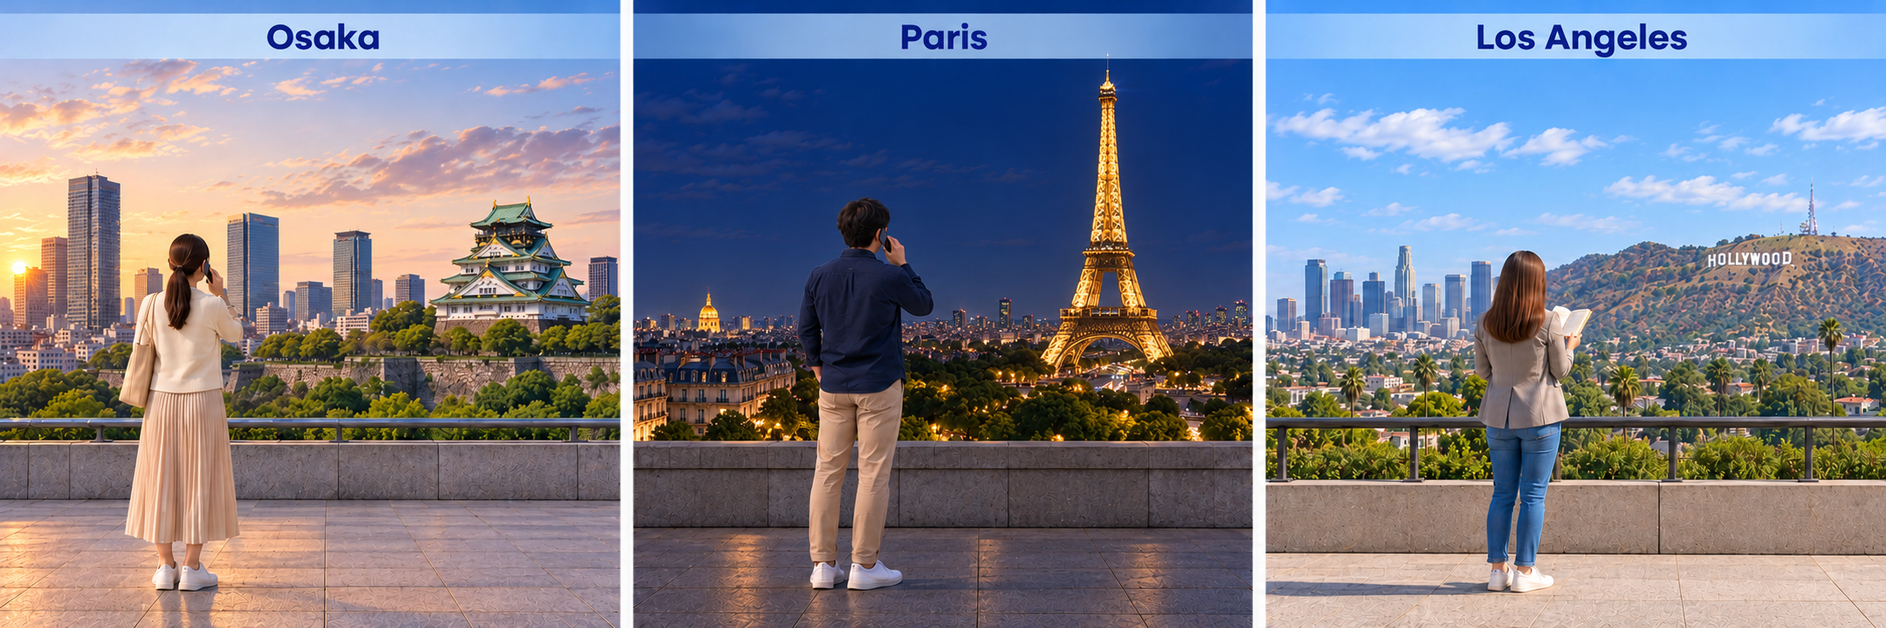
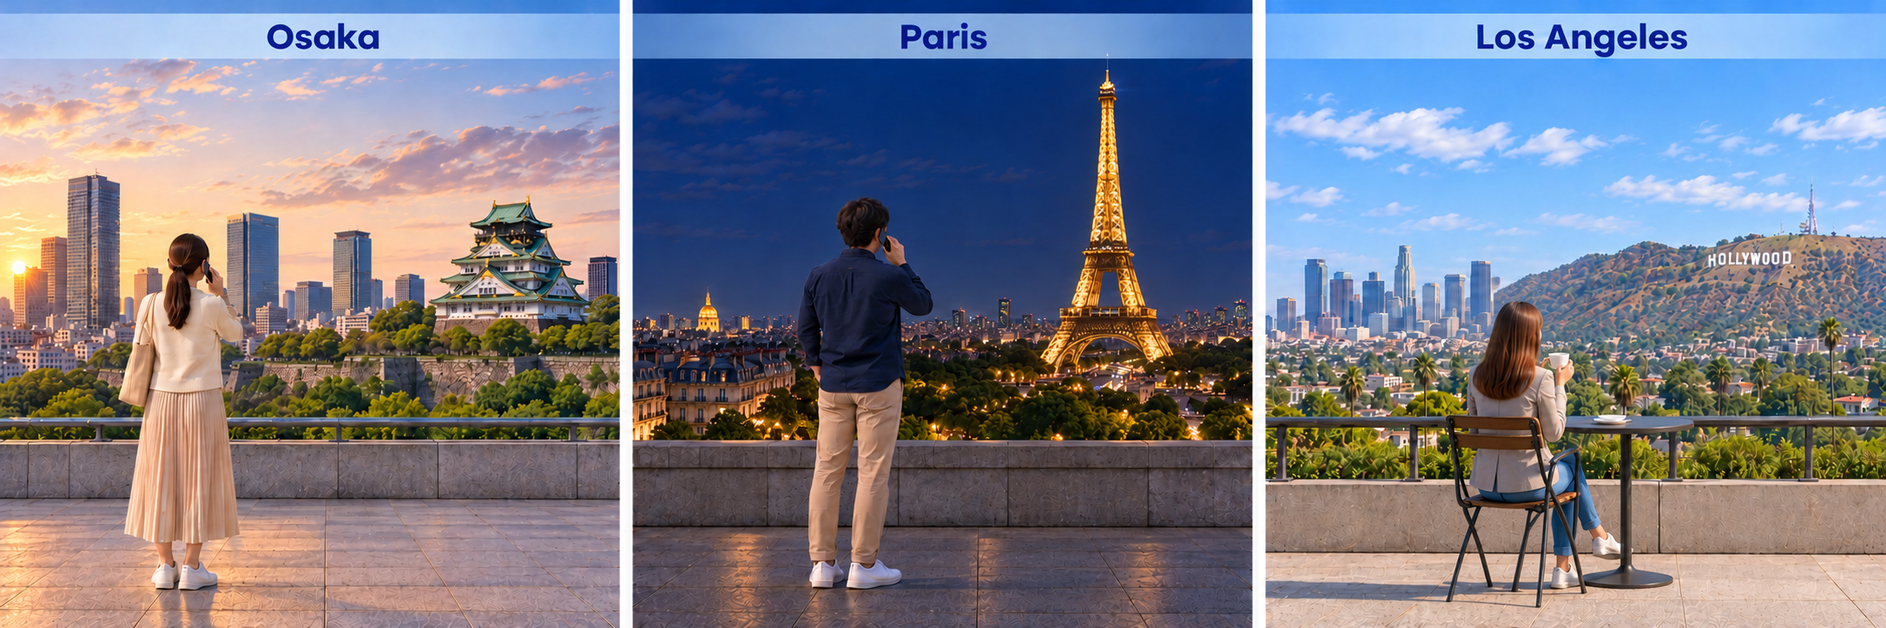
Refine demonstrative examples, scene layouts and clock choices

diff --git a/practice2-next.js b/practice2-next.js
@@ -11,7 +11,7 @@ const PracticeNext = (()=>{
         {hira:'たけし',kanji:'たけし',romaji:'Takeshi',meaning:'Takeshi (green sweater)',kind:'person-takeshi'},
         {hira:'ロバート',kanji:'ロバート',romaji:'Robāto',meaning:'Robert (red sweater)',kind:'person-robert'}
     ];
-    const readings=[['Bさん','びーさん'],['Cさん','しーさん'],['午前6時','ごぜんろくじ'],['午後9時','ごごくじ'],['午後5時','ごごごじ'],['午後2時','ごごにじ'],['午前六時','ごぜんろくじ'],['午後九時','ごごくじ'],['午後五時','ごごごじ'],['午後二時','ごごにじ'],['朝','あさ'],['昼','ひる'],['夜','よる'],['夕方','ゆうがた'],['大阪','おおさか'],['果物','くだもの'],['午後10時','ごごじゅうじ'],['午後1時','ごごいちじ'],['午前9時','ごぜんくじ'],['午後十時','ごごじゅうじ'],['午後一時','ごごいちじ'],['午前九時','ごぜんくじ'],['何時','なんじ'],['今','いま'],['何','なに'],['五千円','ごせんえん'],['六千円','ろくせんえん'],['八千円','はっせんえん'],['九千円','きゅうせんえん'],['一万円','いちまんえん'],['弁当','べんとう'],['六百円','ろっぴゃくえん'],['九百円','きゅうひゃくえん'],['四百円','よんひゃくえん'],['帽子','ぼうし'],['四千円','よんせんえん'],['人','ひと'],['誰','だれ'],['私','わたし'],['武','たけし'],['三万円','さんまんえん'],['3万円','さんまんえん'],['3千円','さんぜんえん'],['2千円','にせんえん'],['3百円','さんびゃくえん'],['円','えん'],['30000円','さんまんえん'],['30,000円','さんまんえん'],['三千円','さんぜんえん'],['3000円','さんぜんえん'],['3,000円','さんぜんえん'],['二千円','にせんえん'],['2000円','にせんえん'],['2,000円','にせんえん'],['三百円','さんびゃくえん'],['300円','さんびゃくえん'],['千円','せんえん']];
+    const readings=[['百円','ひゃくえん'],['二百円','にひゃくえん'],['Bさん','びーさん'],['Cさん','しーさん'],['午前6時','ごぜんろくじ'],['午後9時','ごごくじ'],['午後5時','ごごごじ'],['午後2時','ごごにじ'],['午前六時','ごぜんろくじ'],['午後九時','ごごくじ'],['午後五時','ごごごじ'],['午後二時','ごごにじ'],['朝','あさ'],['昼','ひる'],['夜','よる'],['夕方','ゆうがた'],['大阪','おおさか'],['果物','くだもの'],['午後10時','ごごじゅうじ'],['午後1時','ごごいちじ'],['午前9時','ごぜんくじ'],['午後十時','ごごじゅうじ'],['午後一時','ごごいちじ'],['午前九時','ごぜんくじ'],['何時','なんじ'],['今','いま'],['何','なに'],['五千円','ごせんえん'],['六千円','ろくせんえん'],['八千円','はっせんえん'],['九千円','きゅうせんえん'],['一万円','いちまんえん'],['弁当','べんとう'],['六百円','ろっぴゃくえん'],['九百円','きゅうひゃくえん'],['四百円','よんひゃくえん'],['帽子','ぼうし'],['四千円','よんせんえん'],['人','ひと'],['誰','だれ'],['私','わたし'],['武','たけし'],['三万円','さんまんえん'],['3万円','さんまんえん'],['3千円','さんぜんえん'],['2千円','にせんえん'],['3百円','さんびゃくえん'],['円','えん'],['30000円','さんまんえん'],['30,000円','さんまんえん'],['三千円','さんぜんえん'],['3000円','さんぜんえん'],['3,000円','さんぜんえん'],['二千円','にせんえん'],['2000円','にせんえん'],['2,000円','にせんえん'],['三百円','さんびゃくえん'],['300円','さんびゃくえん'],['千円','せんえん']];
     return {items:[...Practice21.items,...places,...people,...cities,{hira:'おおさか',kanji:'大阪',romaji:'Ōsaka',meaning:'Osaka',kind:'city'},{hira:'パリ',kanji:'パリ',romaji:'Pari',meaning:'Paris',kind:'city'},{hira:'ロサンゼルス',kanji:'ロサンゼルス',romaji:'Rosanzerusu',meaning:'Los Angeles',kind:'city'},{hira:'くだもの',kanji:'果物',romaji:'kudamono',meaning:'fruit',kind:'fruit'}],places,people,cities,readings};
 })();
 // Practice 2.2 / 2.3: visual demonstratives. Recorder/settings derived from Practice 1.2.
@@ -301,7 +301,7 @@ function stopAllPlayback() {
 // このページの語彙の読みを正規化する。
 function convertToHiragana(text) {
     let value=String(text??'');
-    value=value.replace(/(\d[\d,]*)(?:円|えん)/g,(full,amount)=>({30000:'さんまんえん',3000:'さんぜんえん',2000:'にせんえん',300:'さんびゃくえん',1000:'せんえん',4000:'よんせんえん',600:'ろっぴゃくえん',900:'きゅうひゃくえん',5000:'ごせんえん',6000:'ろくせんえん',8000:'はっせんえん',9000:'きゅうせんえん',10000:'いちまんえん'}[Number(amount.replace(/,/g,''))]||full));
+    value=value.replace(/(\d[\d,]*)(?:円|えん)/g,(full,amount)=>({30000:'さんまんえん',3000:'さんぜんえん',2000:'にせんえん',300:'さんびゃくえん',100:'ひゃくえん',200:'にひゃくえん',1000:'せんえん',4000:'よんせんえん',600:'ろっぴゃくえん',900:'きゅうひゃくえん',5000:'ごせんえん',6000:'ろくせんえん',8000:'はっせんえん',9000:'きゅうせんえん',10000:'いちまんえん'}[Number(amount.replace(/,/g,''))]||full));
     for(const [from,to] of [...PracticeNext.items.map(o=>[o.kanji,o.hira]),...PracticeNext.readings].sort((a,b)=>b[0].length-a[0].length)) value=value.split(from).join(to);
     return value.replace(/鞄/g,'かばん').replace(/何/g,'なに');
 }
@@ -954,8 +954,12 @@ function practice2ShowNotice(resultSpan, message) {
         const pattern = /(この|その|あの|どの|ここ|そこ|あそこ|どこ|だれ|誰|ですか|だよ|です|だ|は、|が、|いくら|の)/g;
 
         let position = 0;
+        const protectedWord=object?noun(object):'';
+        const protectedStarts=[];
+        if(protectedWord)for(let at=text.indexOf(protectedWord);at!==-1;at=text.indexOf(protectedWord,at+protectedWord.length))protectedStarts.push(at);
 
         for (const match of text.matchAll(pattern)) {
+            if(protectedStarts.some(at=>match.index>=at&&match.index<at+protectedWord.length))continue;
             span.append(
                 document.createTextNode(
                     text.slice(position, match.index)
@@ -1223,8 +1227,8 @@ function practice2ShowNotice(resultSpan, message) {
     });
     const merchandise=(kind)=>{
         const base={fruit:['くだもの','果物','kudamono','fruit'],bag:['かばん','カバン','kaban','bag'],clock:['とけい','時計','tokei','clock / watch'],onigiri:['おにぎり','おにぎり','onigiri','rice ball'],bento:['おべんとう','お弁当','obentō','boxed lunch']}[kind];
-        const values=kind==='onigiri'||kind==='fruit'?[300,600,900]:kind==='bento'?[1000,2000,3000]:kind==='clock'?[6000,9000,10000]:[2000,5000,8000];
-        const names={5000:['ごせんえん','五千円'],6000:['ろくせんえん','六千円'],8000:['はっせんえん','八千円'],9000:['きゅうせんえん','九千円'],10000:['いちまんえん','一万円'],300:['さんびゃくえん','三百円'],600:['ろっぴゃくえん','六百円'],900:['きゅうひゃくえん','九百円'],1000:['せんえん','千円'],2000:['にせんえん','二千円'],3000:['さんぜんえん','三千円'],4000:['よんせんえん','四千円']};
+        const values=kind==='fruit'?[300,100,200]:kind==='onigiri'?[300,600,900]:kind==='bento'?[1000,2000,3000]:kind==='clock'?[6000,9000,10000]:[2000,5000,8000];
+        const names={100:['ひゃくえん','百円'],200:['にひゃくえん','二百円'],5000:['ごせんえん','五千円'],6000:['ろくせんえん','六千円'],8000:['はっせんえん','八千円'],9000:['きゅうせんえん','九千円'],10000:['いちまんえん','一万円'],300:['さんびゃくえん','三百円'],600:['ろっぴゃくえん','六百円'],900:['きゅうひゃくえん','九百円'],1000:['せんえん','千円'],2000:['にせんえん','二千円'],3000:['さんぜんえん','三千円'],4000:['よんせんえん','四千円']};
         return values.map((priceNumber,i)=>({kind,hira:base[0],kanji:base[1],romaji:base[2],meaning:base[3],zone:['A','B','far'][i],photoKind:kind,priceNumber,priceHira:names[priceNumber][0],priceKanji:names[priceNumber][1]}));
     };
     const places=()=>PracticeNext.places.map(o=>({...o}));
@@ -1251,12 +1255,13 @@ function practice2ShowNotice(resultSpan, message) {
         const reduced=matchMedia('(prefers-reduced-motion: reduce)').matches;
         context.animate(reduced?[active,active]:[normal,active,normal],{duration:reduced?1200:1200,iterations:context.closest('.p2x-hat-picture')?Infinity:reduced?1:3,easing:'ease-in-out'});
     }
+    const shopAudioCleanups=[];
     function scene(container,objects,{example=false,people=false,which=false,model=false,speakerGuide=true}={}) {
         const shop=is22&&!people;
         const hats=shop&&(example||Boolean(objects[0]?.photoKind));
         const photoKind=objects[0]?.photoKind;
         const picture=node('div','p21-drill-picture p2x-picture');
-        picture.classList.toggle('p2x-shop-picture',shop);
+        picture.classList.toggle('p2x-shop-picture',shop);picture.classList.toggle('p2x-cropped-picture',shop);
         picture.classList.toggle('p2x-hat-picture',hats);
         picture.classList.toggle('p2x-example-picture',example);picture.classList.toggle('p2x-model-picture',model);picture.classList.toggle('p2x-floor-picture',!is22);
         picture.classList.toggle('p2x-people-picture',people);
@@ -1288,7 +1293,7 @@ function practice2ShowNotice(resultSpan, message) {
         }
         const audioGrid=node('div','p2x-audio-grid');
         for(const [i,o] of objects.entries()) {
-            const position=hats?{A:[photoKind==='onigiri'||photoKind==='bento'||photoKind==='fruit'?30:25,photoKind==='clock'?36:48],B:[74,46],far:[50,18]}[o.zone]:!is22?{A:[20,84],B:[51,84],far:[84,76]}[o.zone]:people?{A:[28,48],B:[73,46],far:[50,35]}[o.zone]:{A:[25,52],B:[73,53],far:[50,23.5]}[o.zone];
+            const position=hats?{A:[photoKind==='onigiri'||photoKind==='bento'||photoKind==='fruit'?30:25,48],B:[74,46],far:[50,18]}[o.zone]:!is22?{A:[20,84],B:[51,84],far:[84,76]}[o.zone]:people?{A:[28,48],B:[73,46],far:[50,35]}[o.zone]:{A:[25,52],B:[73,53],far:[50,23.5]}[o.zone];
             const target=node('div',people?'p2x-person-target':'p2x-object');target.dataset.zone=o.zone;target.dataset.kind=o.kind;target.dataset.color=o.colorName||'';
             target.style.left=position[0]+'%';target.style.top=position[1]+'%';
             if(people) {target.append(node('span','p2x-person-name',noun(o)));}
@@ -1302,7 +1307,7 @@ function practice2ShowNotice(resultSpan, message) {
                 if(is22&&(!which||photoKind)) {
                     const tag=node('span','p2x-price',`¥${o.priceNumber.toLocaleString('en-US')}`);
                     if(!example&&!model){tag.classList.add('p2x-price-hint');imageHint(tag,{...o,hintText:o.priceHira});}
-                    if(hats) {tag.style.left=position[0]+'%';tag.style.top=(o.zone==='far'?0:photoKind==='bag'?21:photoKind==='clock'?16:29)+'%';tag.style.bottom='auto';stage.append(tag);}
+                    if(hats) {tag.style.left=(photoKind==='clock'&&o.zone==='B'?73:position[0])+'%';tag.style.top=(o.zone==='far'?0:photoKind==='bag'?21:29)+'%';tag.style.bottom='auto';stage.append(tag);}
                     else target.append(tag);
                 }
             }
@@ -1335,7 +1340,16 @@ function practice2ShowNotice(resultSpan, message) {
                 const guide=node('div','p2x-unknown-guide');guide.append(node('strong','','ど：'),node('span','','Asking about the unknown'));picture.append(guide);
             }
         }
-        if(speakerGuide) {if(hats)stage.append(context);else picture.append(context);}picture.append(stage);if(example&&!hats)picture.append(audioGrid);container.append(picture);
+        if(speakerGuide)picture.append(context);
+        if(shop){const canvas=node('div','p2x-scene-canvas');while(stage.firstChild)canvas.append(stage.firstChild);stage.append(canvas);}
+        picture.append(stage);if(example&&!hats)picture.append(audioGrid);
+        if(hats&&example){
+            const tray=node('div','p2x-compact-audio');tray.setAttribute('aria-label','Model audio: left item, upper item, right item');picture.append(tray);
+            const media=matchMedia('(max-width:700px)');
+            const moveAudio=()=>{const compact=media.matches;picture.dataset.audioLayout=compact?'tray':'overlay';tray.hidden=!compact;for(const controls of picture.querySelectorAll('.p2x-audio'))(compact?tray:stage.querySelector('.p2x-scene-canvas')).append(controls);};
+            moveAudio();media.addEventListener('change',moveAudio);shopAudioCleanups.push(()=>media.removeEventListener('change',moveAudio));
+        }
+        container.append(picture);
         function select(speaker,zone) {
             picture.dataset.speaker=speaker;picture.dataset.target=zone||'';
             context.querySelector('strong').textContent=speaker;
@@ -1371,6 +1385,7 @@ function practice2ShowNotice(resultSpan, message) {
     };
     function cityScene(container,{example=false,times=false,objects=cityObjects(),drill=false,indoor=false}={}) {
         const picture=node('div','p21-drill-picture p2x-picture p23-city-picture'+(example?' p2x-example-picture':''));
+        picture.classList.toggle('p23-indoor-picture',indoor);
         const context=node('p','p21-photo-context p2x-speaker-guide');context.append(node('span','','Who is speaking?'),node('strong','p21-current-speaker','A'));
         if(example){picture.append(context);picture.append(node('p','p23-call-link','📞 A ↔ B'))
         }
@@ -1383,7 +1398,7 @@ function practice2ShowNotice(resultSpan, message) {
             const hint=node('span','p23-city-hint');imageHint(hint,o);region.append(hint);
             region.append(node('strong','p23-city-person',['A','B','C'][i]));
             const clock=node('span','p23-city-time',times?o.clock:indoor?'':word(o.periodHira,o.periodKanji));
-            if(times)imageHint(clock,{...o,hintText:o.timeHira});region.append(clock);stage.append(region);
+            if(times)imageHint(clock,{...o,hintText:o.timeHira});else clock.classList.add('p23-period-badge');region.append(clock);stage.append(region);
         }
         picture.append(stage);
         if(!indoor)picture.append(node('p','p23-time-note','Practice times · not a live clock'));
@@ -1401,7 +1416,7 @@ function practice2ShowNotice(resultSpan, message) {
         const cs=cityObjects(),d1=document.getElementById('drill1Container'),d2=document.getElementById('drill2Container'),d3=document.getElementById('drill3Container');
         const period=o=>word(o.periodHira,o.periodKanji),time=o=>word(o.timeHira,o.timeKanji);
         const intro=(o,i)=>statement(i===0?word('わたし','私'):['','Bさん','Cさん'][i],noun(o));
-        const addModel=(box,label,text,select,who,o)=>{const p=node('p');p.append(node('strong','',label),listen(()=>{select(who,o.zone);return text();}),modelText(text,o));box.append(p);};
+        const addModel=(box,label,text,select,who,o)=>{const p=node('p'),b=listen(()=>{select(who,o.zone);return text();},`${who}🔊きく`);select.placeButton(b,{zone:who});p.append(node('strong','',label),modelText(text,o));box.append(p);};
         const e1=node('section','example-box p2x-example');e1.append(node('h2','p21-distance-heading','ここ・そこ・あそこ'));
         const selectEx=cityScene(e1,{example:true}),list=node('div','p21-model-list');
         cs.forEach((o,i)=>{const group=node('section','p21-model-group'),line=node('p','p21-model-line');line.dataset.modelSpeaker='A';line.dataset.zone=o.zone;
@@ -1429,6 +1444,7 @@ function practice2ShowNotice(resultSpan, message) {
     }
 
     function renderSections() {
+        shopAudioCleanups.splice(0).forEach(cleanup=>cleanup());
         for(const id of ['drill1Container','drill2Container','drill3Container',...(is22?['peopleContainer']:[])]){const c=document.getElementById(id);c.replaceChildren();c.hidden=false;}
         if(!is22){renderCitySections();return;}
         const d1=document.getElementById('drill1Container');
@@ -1440,11 +1456,12 @@ function practice2ShowNotice(resultSpan, message) {
         if(is22) {
             list.classList.add('p2x-speaker-models');
             for(const speaker of ['A','B']) {
-                const group=node('section','p21-model-group');group.append(node('h3','',speaker));
+                const group=node('section','p21-model-group');group.classList.add('p2x-speaker-group');group.append(node('h3','',speaker));
+                const sentences=node('div','p2x-speaker-sentences');
                 for(const o of exObjects) {
                     const row=node('p','p21-model-line');row.dataset.modelSpeaker=speaker;row.dataset.zone=o.zone;
-                    row.append(modelText(()=>describe(speaker,o),o));group.append(row);
-                }list.append(group);
+                    row.append(modelText(()=>describe(speaker,o),o));sentences.append(row);
+                }group.append(sentences);list.append(group);
             }
         } else {
             for(const o of exObjects) {
@@ -1509,7 +1526,7 @@ function practice2ShowNotice(resultSpan, message) {
         q.append(node('strong','','A · Question: '),listen(()=>{selectExample('A',sample.zone);return qText(sample);}),modelText(()=>qText(sample),sample));
         r.append(node('strong','','B · Response: '),listen(()=>{selectExample('B',sample.zone);return short(adnominal('B',sample));}),modelText(()=>short(adnominal('B',sample)),sample));box.append(q,r);container.append(box);
         panel(container,'Drill 3: どの + noun','💡A: Ask which group has that price. B: この／その／あの + noun. ※ Price = whole group. Nouns and この／その／あの keep the same form for one or more items.');
-        const set=setButtons(container,['おにぎり',word('おべんとう','お弁当')],'choosingSet'),objects=merchandise(set===0?'onigiri':'bento'),select=scene(container,objects,{which:true,speakerGuide:false});
+        const set=setButtons(container,['おにぎり',word('おべんとう','お弁当')],'choosingSet'),objects=merchandise(set===0?'onigiri':'bento'),select=scene(container,objects,{which:false,speakerGuide:false});
         objects.forEach((o,i)=>{
             const current=card(container,String(i+1)),prefix=`p22_food_s${set}_A_${i}`;
             const q=recordingRow(current,'q',`<strong>A · Question:</strong> どの／${vocabulary(o)}／${priceCue(o)}`,prefix+'_q',()=>qText(o));

diff --git a/style.css b/style.css
@@ -2773,3 +2773,55 @@ body[data-practice="2.3"] .tooltip-tip { position: fixed; left: 12px; top: 12px;
  .p23-city-person { left: 3%; font-size: 14px; padding-inline: 2px; }
  .p23-city-region .p23-city-time { right: 3%; font-size: 12px; padding-inline: 2px; }
 }
+/* 2.1: captions begin just below the table edge. */
+.p21-distance-area[data-zone="A"] .p21-area-caption,
+.p21-distance-area[data-zone="B"] .p21-area-caption { top: -4%; }
+.p21-which-example .p21-drill-picture { width: 75%; }
+@media(max-width:900px) { .p21-which-example .p21-drill-picture { width: 100%; } }
+/* Shop scenes retain the original coordinate system while discarding empty space below A/B. */
+.p2x-cropped-picture .p2x-stage { aspect-ratio: 2 / .86; }
+.p2x-scene-canvas { position: absolute; top: 0; left: 0; width: 100%; aspect-ratio: 2 / 1; }
+.p2x-speaker-group { display: grid; grid-template-columns: max-content minmax(0,1fr); gap: 8px; align-items: start; }
+.p2x-speaker-group > h3 { margin: 4px 0; }
+.p2x-cropped-picture .p21-which-guide { top: auto; bottom: 22%; right: 4%; max-width: 34%; }
+
+.p2x-cropped-picture .p2x-photo:not(.p2x-reach-foreground) { clip-path: inset(0 0 14%); }
+@media(min-width:451px) {
+ .p2x-cropped-picture .p2x-audio:not([data-zone="far"]) { top: 34.5% !important; }
+ .p2x-cropped-picture .p2x-distance-label:not([data-zone="far"]) { top: 66.5% !important; }
+}
+/* City regions and model controls are overlays inside the actual photograph. */
+.p23-city-stage, .p23-city-picture:has(.p23-in-scene-audio) .p23-city-stage { padding: 0; }
+.p23-city-region { top: 9%; }
+.p23-city-region .p2x-distance-label { top: 1%; }
+.p23-city-region .p23-city-person { top: auto; bottom: 5%; }
+.p23-city-region .p23-city-time { top: auto; bottom: 5%; }
+.p23-period-badge { display: none; }
+.p23-in-scene-audio { bottom: 5%; right: 4%; }
+@media(max-width:450px) { .p23-city-region .p23-city-person { bottom: 45px; } }
+/* A single guide line frees the crowded upper shelf without reducing button text. */
+.p2x-cropped-picture > .p2x-speaker-guide { position: static; transform: none; max-width: 100%; width: max-content; margin: 0 0 8px; font-size: .9em; gap: 8px; }
+.p2x-cropped-picture .p2x-audio[data-zone="far"] { left: 32% !important; }
+@media(max-width:450px) { .p2x-cropped-picture .p2x-audio[data-zone="far"] { left: 50% !important; } }
+/* On narrow screens, three aligned groups keep the photographed items unobscured. */
+.p2x-compact-audio:not([hidden]) { display: grid; grid-template-columns: repeat(3,minmax(0,1fr)); gap: 8px; margin-top: 10px; }
+.p2x-compact-audio .p2x-audio { position: static !important; transform: none !important; margin: 0; width: max-content; justify-self: center; }
+.p2x-cropped-picture[data-audio-layout="tray"] .p2x-stage { overflow: hidden; margin-bottom: 0; }
+.p2x-cropped-picture[data-audio-layout="tray"] .p2x-distance-label:not([data-zone="far"]) { top: 57% !important; }
+.p2x-cropped-picture[data-audio-layout="tray"] .p2x-speaker-guide { font-size: .9em; }
+@media(max-width:450px) {
+ .p2x-compact-audio:not([hidden]) { grid-template-columns: repeat(2,minmax(0,1fr)); }
+ .p2x-compact-audio .p2x-audio[data-zone="B"] { grid-column: 1 / -1; }
+ .p2x-cropped-picture .p2x-person { font-size: 16px; }
+ .p2x-cropped-picture[data-audio-layout="tray"] .p2x-distance-label:not([data-zone="far"]) { top: 52% !important; }
+}
+.p2x-cropped-picture .p21-which-guide { left: 50%; right: auto; transform: translateX(-50%); bottom: 22%; }
+@media(max-width:450px) {
+ .p23-city-region .p21-area-description { position: absolute; width: 1px; height: 1px; overflow: hidden; clip-path: inset(50%); white-space: nowrap; }
+}
+@media(max-width:450px) {
+ .p23-city-region .p2x-distance-label { left: 70%; width: 60%; }
+}
+@media(max-width:700px) {
+ .p23-indoor-picture .p21-area-description { position: absolute; width: 1px; height: 1px; overflow: hidden; clip-path: inset(50%); white-space: nowrap; }
+}

diff --git a/practice2.1.js b/practice2.1.js
@@ -1474,13 +1474,22 @@ function practice2ShowNotice(resultSpan, message) {
             bindSpeaker(q,'A',show2);bindSpeaker(r,'B',show2);
         });show2('A');
         const d3=document.getElementById('drill3Container');d3.hidden=false;
+        const exampleBox=node('section','example-box p21-which-example');
+        const phone=item('phone'),exampleObjects=['red','blue','green'].map((colorName,i)=>({...phone,colorName,zone:['A','B','far'][i]}));
+        const showExample=laterScene(exampleBox,exampleObjects,true);
+        const mine=exampleObjects[0],yours=exampleObjects[1];
+        const aText=()=>statement(word('わたしの','私の')+noun(mine),pro('A',mine))+whichQuestion(yours);
+        const bText=()=>shortAnswer('B',yours);
+        const qLine=node('p'),rLine=node('p');qLine.append(node('strong','','A · Question: '),listen(()=>{showExample('A');return aText();}),modelText(aText,phone));
+        rLine.append(node('strong','','B · Response: '),listen(()=>{showExample('B');return bText();}),modelText(bText,phone));
+        exampleBox.append(qLine,rLine);d3.append(exampleBox);showExample('A');
         const panel3=node('div','info-panel info-panel-task1');panel3.append(node('span','info-panel-title','Drill 3: Which one?'),node('span','info-panel-desc','💡Take turns asking. Use これ／それ／あれ for the color shown.'));d3.append(panel3);
-        const s3=setButtons(d3,['スマホ',noun(item('dictionary')),noun(item('wallet'))],'choosingSet');
-        const nounItem=item(['phone','dictionary','wallet'][s3]);
+        const s3=setButtons(d3,[noun(item('dictionary')),noun(item('wallet'))],'choosingSet');
+        const nounItem=item(['dictionary','wallet'][s3]);
         const choices=['red','blue','green'].map((colorName,i)=>({...nounItem,zone:['A','B','far'][i],colorName}));
         const show3=laterScene(d3,choices,true);
-        // Six questions total across three noun sets, balancing all three distances.
-        const targets=[[0,1],[1,2],[2,0]][s3];
+        // The phone is introduced in Example 2; the two Drill sets cover dictionary and wallet.
+        const targets=[[1,2],[2,0]][s3];
         targets.forEach((target,i)=>{
             const o=choices[target],current=card(d3,String(i+1)),asking=i===0?'A':'B',answering=i===0?'B':'A';
             current.body.closest('.drill-row').classList.add('p21-choosing-practice');

diff --git a/practice2.3.html b/practice2.3.html
@@ -3,8 +3,8 @@
 <head>
     <meta charset="UTF-8">
     <meta name="viewport" content="width=device-width, initial-scale=1.0">
-    <title>Practice 2.3: ここ・そこ・あそこ・どこ</title>
-    <link rel="stylesheet" href="style.css?v=20261027-rebuild">
+    <title>Practice 2.3: ここ・そこ・あそこ・どこ — Place Demonstratives</title>
+    <link rel="stylesheet" href="style.css?v=20261028-layout">
 </head>
 <body class="site-scale practice12-page practice21-page practice-next-page" data-practice="2.3">
 
@@ -15,7 +15,7 @@
 
         <!-- Title + Independent Back Link -->
         <div class="page-heading">
-            <h1>Practice 2.3: ここ・そこ・あそこ・どこ</h1>
+            <h1>Practice 2.3: ここ・そこ・あそこ・どこ — Place Demonstratives</h1>
 
             <a
                 href="#"
@@ -176,7 +176,7 @@
     <script src="drill-audio-session.js"></script>
     <script src="drill-answer-rules.js"></script>
     <script src="practice2.1-scenes.js"></script>
-    <script src="practice2-next.js?v=20261027-rebuild"></script>
+    <script src="practice2-next.js?v=20261028-layout"></script>
     <script src="tooltip-layout.js"></script>
 </body>
 </html>

diff --git a/practice2.2.html b/practice2.2.html
@@ -4,7 +4,7 @@
     <meta charset="UTF-8">
     <meta name="viewport" content="width=device-width, initial-scale=1.0">
     <title>Practice 2.2: この・その・あの・どの — Demonstrative Adjectives</title>
-    <link rel="stylesheet" href="style.css?v=20261027-rebuild">
+    <link rel="stylesheet" href="style.css?v=20261028-layout">
 </head>
 <body class="site-scale practice12-page practice21-page practice-next-page" data-practice="2.2">
 
@@ -177,7 +177,7 @@
     <script src="drill-audio-session.js"></script>
     <script src="drill-answer-rules.js"></script>
     <script src="practice2.1-scenes.js"></script>
-    <script src="practice2-next.js?v=20261027-rebuild"></script>
+    <script src="practice2-next.js?v=20261028-layout"></script>
     <script src="tooltip-layout.js"></script>
 </body>
 </html>

diff --git a/practice2.1.html b/practice2.1.html
@@ -4,7 +4,7 @@
     <meta charset="UTF-8">
     <meta name="viewport" content="width=device-width, initial-scale=1.0">
     <title>Practice 2.1: これ・それ・あれ・どれ — Demonstrative Pronouns</title>
-    <link rel="stylesheet" href="style.css?v=20261027-controls">
+    <link rel="stylesheet" href="style.css?v=20261028-layout">
 </head>
 <body class="site-scale practice12-page practice21-page">
 
@@ -176,7 +176,7 @@
     <script src="drill-audio-session.js"></script>
     <script src="drill-answer-rules.js"></script>
     <script src="practice2.1-scenes.js"></script>
-    <script src="practice2.1.js"></script>
+    <script src="practice2.1.js?v=20261028-layout"></script>
     <script src="tooltip-layout.js"></script>
 </body>
 </html>

diff --git a/index.html b/index.html
@@ -29,7 +29,7 @@
                     <a href="practice2.2.html">Practice 2.2: この・その・あの・どの — Demonstrative Adjectives</a>
                 </li>
                 <li>
-                    <a href="practice2.3.html">Practice 2.3: ここ・そこ・あそこ・どこ</a>
+                    <a href="practice2.3.html">Practice 2.3: ここ・そこ・あそこ・どこ — Place Demonstratives</a>
                 </li>
                 <li>
                     <a href="practice7.1.html">Practice 7.1: ているform① Ongoing</a>

diff --git a/docs/PRACTICE22_23_SPEC.md b/docs/PRACTICE22_23_SPEC.md
@@ -7,8 +7,8 @@
 - 2.2はこの／その／あの＋名詞・どの＋名詞、2.3はここ／そこ／あそこ・どこ。2.1の設定、130％標準表示、本文の滑らかな拡張、語彙Hover／Display／OFF、文法の金色強調、行ごとのきく・とる・停止・認識結果・判定・録音後リレーを継承する。Textボタンは設けない。
 - 初期表示Hiragana。With漢字はL1・L2の参考漢字を使用し、かばんはカバン。登場人物のたけしには未習漢字を当てず、武は認識結果の比較時だけ読みへ変換する。固有名はメアリー／たけし／ロバート。
 - 音声・認識・録音のライフサイクルは2.1から引き継いだpractice2-next.jsを、新しい2ページだけで共用。既存2.1の録音実装は再構成しない。共通DrillAudio／DrillAnswer／tooltip-layoutを継続使用し、2.1の品物データ・画像素材も再利用する。
-- 写真の人物・物・背景は固定し、2.2はA／Bのきく・とる・フォーカスで話者表示を切り替える。2.3は再生・録音開始で切り替え、フォーカスのみでは切り替えない。Who is speaking?は2.2 Exampleでは画像内の独立した最前面、2.3のExampleは写真の外側に表示し、2.2 D1・D3と2.3 DrillにはWhoを出さない。2.2 ExampleではA／BのPlaying中に背景の濃淡を1.2秒周期で継続し終了・中断時に解除。その他のExampleは1.2秒×3回。reduced-motionでは静的な一時強調。
-- Exampleの写真は広幅75％、Drillの写真は60％。900px以下では100％。2.2 Exampleの文はAの3文／Bの3文の2群（600px以下で縦並び）。2.2 Exampleのきくボタンは各帽子に対応した画像内の空き領域にA／B縦並びで配置。Whoは2.1同様に画像左上2％。こはAの肩の右、そはBの肩の左、あは上段帽子の右。その他のページのモデル文3群は900px以下で縦並び、再生ボタンは写真下の3列。
+- 写真の人物・物・背景は固定し、2.2はA／Bのきく・とる・フォーカスで話者表示を切り替える。2.3は再生・録音開始で切り替え、フォーカスのみでは切り替えない。Who is speaking?は2.2・2.3のExampleで写真の直上に表示し、2.2 D1・D3と2.3 DrillにはWhoを出さない。2.2 ExampleではA／BのPlaying中に背景の濃淡を1.2秒周期で継続し終了・中断時に解除。その他のExampleは1.2秒×3回。reduced-motionでは静的な一時強調。
+- Exampleの写真は広幅75％、Drillの写真は60％。900px以下では100％。2.2 Exampleの文はAの3文／Bの3文の2群（600px以下で縦並び）。2.2 Exampleのきくボタンは広幅では各帽子に対応した図内、700px以下では図直下にA／B縦並びで配置。Whoは図の直上の1行。こはAの肩の右、そはBの肩の左、あは上段帽子の右。その他のページのモデル文3群は900px以下で縦並び、再生ボタンは写真下の3列。
 - Set切り替えはそのセクションの画像・モデル・判定を切り替え、スクロール位置とフォーカスを保つ。準備／録音中は禁止。録音・認識・判定はページ内のセット／話者／行ごとに保持し、戻れば復元。再読込を越えた保存は追加しない。
 - 会話応答は短い自然な返答をモデルにし、正しい全文・部分補完も登録した範囲で許容する。明示した指示語・人名・品名・所有者・場所は一致が必要。無関係な文を削って正解にはしない。単独文作成の必須要素は減らさない。例外として2.2 D2は指示表現の交代が学習目標のため、指示表現＋名詞＋価格を必須とし、価格だけの短答は許容しない。
 
@@ -32,7 +32,7 @@
 
 ### E3・D3：どの＋名詞で値段から選ぶ
 
-- E3はりんご・バナナ・みかん各2個の果物写真とA「どのくだものが、さんびゃくえんですか」→B「そのくだものです」の1組。Example3の枠番号のみ、枠内のExample見出しは付けない。
+- E3はりんご・バナナ・みかん各2個の果物写真（りんご300円・バナナ100円・みかん200円）とA「どのくだものが、さんびゃくえんですか」→B「そのくだものです」の1組。Example3の枠番号のみ、枠内のExample見出しは付けない。
 - D3はSet 1おにぎり、Set 2おべんとう。同じ品名を各位置2個ずつ並べた3群。価格は群全体の合計。おにぎり300／600／900円、おべんとう1,000／2,000／3,000円。
 - 各セットA質問→B返答の3会話のみ、番号1・2・3。正しい指示表現＋名詞が必須で「そのです」は不可。正しい価格を補う「そのおにぎりが三百円です」「そのおにぎりは三百円です」も許容。
 - どのを含む主語の「が」、品名、価格、返答者視点を照合。色による指定・所有物の質問は使わない。名詞と指示表現は単複で形を変えないと短く補足する。
@@ -46,10 +46,10 @@
 
 ## 2.3 ここ・そこ・あそこ・どこ：街と場所（検討用実装）
 
-- E1→D1→E2→D2→E3→D3。AとBだけが通話し、Cは電話を持たず読書する。A/B通話を「📞 A ↔ B」で示す。Cの場所は両話者にとってあそこ。
-- 初期A視点のこ青／そ緑／あ橙を表示。再生・録音開始で話者視点へ切替。WhoはExampleのみ。人物は移動しない。文字は写真上の独立帯、音声は図内下部の帯に置き、頭部との重なりを避ける。
+- E1→D1→E2→D2→E3→D3。AとBだけが通話し、Cは電話を持たず座ってお茶を飲む。A/B通話を「📞 A ↔ B」で示す。Cの場所は両話者にとってあそこ。
+- 初期A視点のこ青／そ緑／あ橙を表示。再生・録音開始で話者視点へ切替。WhoはExampleのみ。人物は移動しない。こ／そ／あは写真内上部、音声は写真内右下。人物の頭部と重ならない位置を使用。375px等の狭幅では音の表示を優先し、英語説明は読み上げ用テキストとして保持する。
 - E1は東京A／ロンドンB／NY C。Aが「私は東京です。ここは朝です」「Bさんはロンドンです。そこは夜です」「Cさんはニューヨークです。あそこは夕方です」。ユーザー指定の人物＋都市の所在文を採用。文は各コマ対応の3群、広幅横並び・狭幅縦並び。各図内ボタンは対応する2文を再生。
-- 東京06:00・ロンドン21:00・NY17:00の練習値。時差に合う朝・夜・夕方へ調整し、写真の照明も対応。Cが読書する姿を維持。固定のPractice timesで現在時刻ではない。
+- 東京06:00・ロンドン21:00・NY17:00の練習値。時差に合う朝・夜・夕方へ調整し、写真の照明も対応。Cは座って過ごす。固定のPractice timesで現在時刻ではない。
 - D1は異なる3都市、大阪06:00朝／パリ22:00夜／LA14:00昼。A視点で「ここは朝です／そこは夜です／あそこは昼です」の3文。モデルきくボタンを図内へ移し、録音・停止・抽出結果は各問題行へ保持。実体のボタンを移動し、重複ボタンを作らない。
 - E2は「そこはいま何時ですか」→「午後九時です」。D2は大阪・パリ・LAの各時計について3会話。A→B／B→Aのセットで役割交代。短答モデルと、正しい返答者視点・都市名を補った全文を許容。算用数字表記も読みへ照合。
 - E3は銀行A／喫茶店B／図書館Cの画像。「あなたはどこですか」→「喫茶店です」。D3はA→Bであなた／喫茶店、B→Aであなた／銀行、A→BでCさん／図書館の3会話。C自身は通話しない。短答と正しい「ここは〜です／私は〜です」、Cについては「あそこは〜です／Cさんは〜です」を許容。誤った指示語・場所・人物は不可。
@@ -95,3 +95,9 @@
 - 2.1 Ex1の音声ボタンは全品物で同じ幅・縦並び。広い図ではこ／そ側を本の高さへ上げ、こ側を少し右へ。狭い図の図下カード配置は維持。
 - 2.2 D1のWho is speaking?は撤去し、行頭のB／A／Bで話者を示す。Exampleの案内は維持。
 - 2.3街①を人物が大きい構図へ変更し、Tokyo／London／New York見出しを上に追加したreview画像を作成。ページ差し替え、色領域、例文構成は相談段階。
+
+## 2026-10-28の画像整理
+- 2.2棚写真は従来の2:1座標を保持し、A/B印より下の空白14％を表示しない。Who案内を画像上の1行へ、700px以下ではモデル音声を画像下の左品／上段品／右品の順の3群へ移し、上部の品物・値札・説明を覆わない。450px以下は2列で折り返す。幅変更は同じ音声ボタン実体を移動して対応。
+- E1のモデルA/Bを3文の左へ配置。E2の丸時計は棚上。9000円値札は対象の中心73％。
+- E3のど案内は下中央、D3では撤去。くだもの等の対象名詞の内部を「だ／の」として強調しない。
+- 2.3のPlace DemonstrativesはIndex・ページ見出しで一致。時差は東京翌朝6時＝London前日21時＝NY前日17時という固定練習値。Cは座ってお茶。こ／そ／あ・音声は実写真の中へ重ね、従来の外側の帯は撤去。

diff --git a/docs/HANDOVER.md b/docs/HANDOVER.md
@@ -1,9 +1,9 @@
 # October2026 作業引き継ぎ・進捗記録（HANDOVER）
 
-最終更新日：2026-10-27
+最終更新日：2026-10-28
 
-## 現在のリレー状態（2026-10-27／Europe/Vienna）
-- 今回開始時main aeffcce／work、GitHub照合・クリーン確認。2.2 E3をくだもの（りんご／バナナ／みかん）へ。2.3をE1人物の都市＋時間帯／D1別都市の3文、E2/D2何時、E3/D3あなた・Cさんはどこへ再構成。Cは読書・電話なし。図内文字帯と操作帯を写真と分け、D1きく実体を図内へ移動。新画像3種と屋内既存案を採用。2.2の402件・2.3の236件合格、600/1440px表示確認。仕様・語彙表更新。実音・実機未確認。モデル文表示はユーザーと継続検討予定。
+## 現在のリレー状態（2026-10-28／Europe/Vienna）
+- 今回開始時main a82a945／work、GitHub fetch・クリーン確認。2.1 Ex1こそ表示を下げ、6音声の幅97.171875pxを確認。新Ex2スマホの所有・どれ会話、D3は辞書/財布。2.2は下14％を表示トリミング、Whoを上・狭幅音声を図下へ、A/Bは文の左。時計6000円は棚、9000円は真上。くだもの内部の金色誤認を除外し、バナナ100/みかん200円、ど案内はE3下中央のみ。時計候補6画像をreviewへ。2.3はPlace Demonstratives、写真内色/右下音声、Cは座ってお茶。仕様と語彙監査更新。2.2は404件・2.3は236件合格。2.1新Exampleを含む791件合格、2.2は404件、2.3は236件合格。全11ページのTTS生成文22件も合格。候補画像は未選定。実音・実機は未確認。
 - 担当Codex／ルール2026-10-25.2。今回の開始時main 285467b／work。保存先main。
 - 今回：2.3屋内3案・街3案の横長画像をリンク用review素材として作成。指定説明英文は削除、画像差し替え・タイトル・時差課題は相談段階。追加指示で2.1対象枠を品物へ、2.2 D1をPriceキュー・Bその/Aこの/Bあの（同じ左品物を2視点、ユーザー確認済み）に変更。時計写真を壁時計・置時計・大きいスポーツ腕時計へ。吹き出しの丸を本体へ寄せ、D3補足を説明欄へ統合。2.1の809件、新2ページ633件、全11ページTTS22件合格。開始時main 057f0a0。
 - 直前の実装：2.2の品物用画像をassets/practice22-shelves.pngへ。Aが左・Bが右に立ち、左右の近い棚・中央奥の遠い棚の商品を見る。Example・D1・D3に反映し、商品・価格・モデル・判定は維持。D2の人物画像と2.3は未変更。

diff --git a/docs/PROJECT_SPEC.md b/docs/PROJECT_SPEC.md
@@ -1012,3 +1012,10 @@ Voice変更時の旧モデル曲線消去は実装済み。モデル文変更時
 - 2.2 E3はりんご・バナナ・みかんを共通名詞くだものとして選択する写真へ。D3のおにぎり・弁当は維持。果物と新地名は追加語彙扱い。
 - 2.3 E1は人物＋都市と、ここ／そこ／あそこ＋時間帯の2文ずつ。E2は何時、E3はあなたはどこ。Cは電話を持たず読書、A/Bだけ通話。東京・ロンドン・NYに整合する朝・夜・夕方を採用。D1・D2は別都市の大阪・パリ・LA。
 - D1きくの実体を図内へ移動し、録音・停止は行に残す。図内文字・操作帯を写真と分け、人物の頭部にかぶせない。モデル文の表示構成はユーザー検討用で、現仕様はPRACTICE22_23_SPECを参照。
+
+## 96. 練習2の選択例・画像整理（2026-10-28）
+- 2.1 E1こ・そ文字をテーブル境界の直下へ約10px下げる。1440px幅Chromiumで音声6ボタンの実寸は全て97.171875px。共通最小幅5emを維持。E2にスマホの所有・どれ会話を追加し、D3は辞書／財布2セットへ。どれの導入後に練習する。
+- 2.2はA/B印下の空白を約14％切る。画像上部が混まないようWhoを図の上の1行、狭幅のモデル音声を図直下の3群へ配置。広幅は図内、音声はA/B縦並びを維持。E1の文はA/Bを各3文の左横に置く。
+- 時計6000円は棚上の商品に変更、9000円値札は置時計中心へ。腕時計3案・掛け時計3案はassets/reviewに保存し、選定待ち。現モデルは維持。
+- E3くだもの内部の「だ」「の」を文法粒子と誤認して色付けしていたため、対象名詞内の一致を強調から除外。みかん200円、バナナ100円、りんご300円。どの説明は図の下中央空きスペースへ。D3にはどの案内を付けない。
+- 2.3英語名はPlace Demonstratives、Indexも一致。写真内にこ青／そ緑／あ橙と右下の音声を重ねる。Example Q/R音声も各話者のコマへ移し、A/Bで識別。Cは座ってお茶を飲む姿。東京06:00は前日のLondon21:00／NY17:00と同時刻（本練習値の時差設定）。季節で時差が変わるため固定練習値を継続する。

diff --git a/docs/UI_LAYOUT_SPEC.md b/docs/UI_LAYOUT_SPEC.md
@@ -205,3 +205,8 @@ L1・L2ページはHiragana初期表示。練習2のWith漢字は参考漢字表
 
 ### 練習2.3の図内操作帯（2026-10-27）
 - こ／そ／あ・人物名・時間帯の文字帯を写真の上、音声操作帯を図の下に確保。全体を各領域の同色枠で囲み、写真の人物と文字・音声を重ねない。D1もモデルきくを図内へ置き、録音・停止・認識結果は問題行に残す。各操作の実体を移動し、モデル再生ボタンを二重に作らない。
+
+### 2026-10-28の練習2調整
+- 2.1 E1のこ・そ文字は約10px下へ。音声6ボタンの97.171875px実測値は1440px幅・Chromium・ブラウザ100％時。E2のスマホ図はExample75％／狭幅100％、Drillは辞書と財布。
+- 2.2は独立した2:1座標キャンバスを設け、下14％だけを隠す。Whoを図の上へ、700px以下では実体の音声ボタンを図下へ移動し各品物のA/B縦並びを保つ。E1の文はA/B横見出し。
+- 2.3は写真内の色領域・右下音声へ。図外の文字・操作帯を使わない。450px以下の英語補足は視覚的に隠し、音・色を優先して頭部への重なりを防ぐ。
